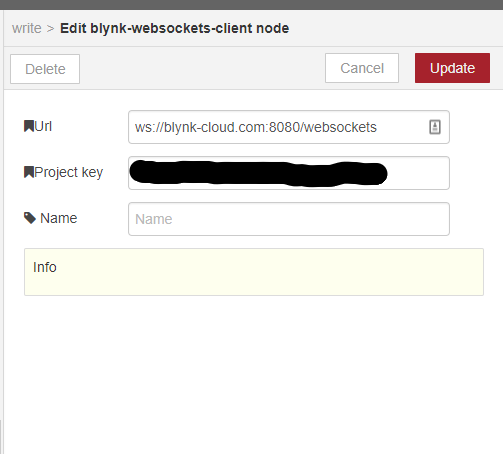
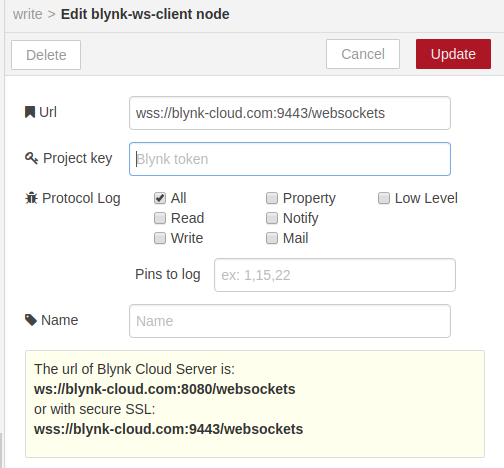
Update project climate monitor

diff --git a/content/doc/projects/wireless-climate-monitor.md b/content/doc/projects/wireless-climate-monitor.md
@@ -146,7 +146,7 @@ Now we have assembled our kit and let's start with some basic integration with *
 
 Firstly we need to configure our **Node-RED** app.
 
-1. If you are using BigClown raspi version you should be fine, but still check that **Blynk** nodes are installed. (You can view them on the left side menu in **Node-RED**). Otherwise you will need to install **Node-RED** package `node-red-contrib-blynk-websockets`. You can follow [**this**]({{< relref "doc/tutorials/nodered-library-installation.md" >}}) example for installing libraries to **NodeRED**.
+1. If you are using BigClown raspi version you should be fine, but still check that **Blynk** nodes are installed. (You can view them on the left side menu in **Node-RED**). Otherwise you will need to install **Node-RED** package `node-red-contrib-blynk-ws`. You can follow [**this**]({{< relref "doc/tutorials/nodered-library-installation.md" >}}) example for installing libraries to **NodeRED**.
 
     {{% img-zoom src="nodered-screen-3.png" width="300" %}}
 
@@ -155,7 +155,7 @@ Firstly we need to configure our **Node-RED** app.
 3. Insert the following snippet in the flow (using **Menu >> Import**) and click in Flow 3 tab:
 
     ```json
-    [{"id":"c7e756bb.71c928","type":"blynk-websockets-out-write","z":"b1df9271.05d5","name":"","pin":"0","client":"c8872bd1.636cb8","x":780,"y":220,"wires":[]},{"id":"2f909f2d.48742","type":"blynk-websockets-out-write","z":"b1df9271.05d5","name":"","pin":"1","client":"c8872bd1.636cb8","x":780,"y":280,"wires":[]},{"id":"35bf3efb.8cf392","type":"blynk-websockets-out-write","z":"b1df9271.05d5","name":"","pin":"2","client":"c8872bd1.636cb8","x":780,"y":340,"wires":[]},{"id":"4db9c585.06680c","type":"mqtt in","z":"b1df9271.05d5","name":"","topic":"node/kit-lcd-thermostat:0/lux-meter/0:0/illuminance","qos":"2","broker":"3dded649.aa80aa","x":330,"y":220,"wires":[["c7e756bb.71c928"]]},{"id":"a1a2bff5.c49da","type":"mqtt in","z":"b1df9271.05d5","name":"","topic":"node/kit-lcd-thermostat:0/thermometer/0:0/temperature","qos":"2","broker":"3dded649.aa80aa","x":340,"y":280,"wires":[["2f909f2d.48742"]]},{"id":"cdb820bb.66d9f","type":"mqtt in","z":"b1df9271.05d5","name":"","topic":"node/kit-lcd-thermostat:0/hygrometer/0:4/relative-humidity","qos":"2","broker":"3dded649.aa80aa","x":350,"y":340,"wires":[["35bf3efb.8cf392"]]},{"id":"c8872bd1.636cb8","type":"blynk-websockets-client","z":"","name":"","path":"ws://blynk-cloud.com:8080/websockets","key":""},{"id":"3dded649.aa80aa","type":"mqtt-broker","z":"","broker":"localhost","port":"1883","clientid":"","usetls":false,"compatmode":true,"keepalive":"60","cleansession":true,"willTopic":"","willQos":"0","willPayload":"","birthTopic":"","birthQos":"0","birthPayload":""}]
+    [{"id":"4914605c.76972","type":"mqtt in","z":"28050251.59dc0e","name":"","topic":"node/kit-climate-monitor:0/lux-meter/0:0/illuminance","qos":"2","broker":"58254712.b61068","x":230,"y":520,"wires":[["431157f1.546248"]]},{"id":"dcf5bf8d.a0242","type":"mqtt in","z":"28050251.59dc0e","name":"","topic":"node/kit-climate-monitor:0/thermometer/0:0/temperature","qos":"2","broker":"58254712.b61068","x":240,"y":580,"wires":[["be96b6aa.eed098"]]},{"id":"2ac2eae7.308486","type":"mqtt in","z":"28050251.59dc0e","name":"","topic":"node/kit-climate-monitor:0/hygrometer/0:4/relative-humidity","qos":"2","broker":"58254712.b61068","x":250,"y":640,"wires":[["dbe4b438.be4ef8"]]},{"id":"431157f1.546248","type":"blynk-ws-out-write","z":"28050251.59dc0e","name":"Pin V0 - Write","pin":0,"pinmode":0,"client":"1b003066.8ca2c","x":659,"y":520,"wires":[]},{"id":"be96b6aa.eed098","type":"blynk-ws-out-write","z":"28050251.59dc0e","name":"","pin":"1","pinmode":0,"client":"1b003066.8ca2c","x":659,"y":580,"wires":[]},{"id":"dbe4b438.be4ef8","type":"blynk-ws-out-write","z":"28050251.59dc0e","name":"","pin":"2","pinmode":0,"client":"1b003066.8ca2c","x":659,"y":640,"wires":[]},{"id":"58254712.b61068","type":"mqtt-broker","z":"","broker":"localhost","port":"1883","clientid":"","usetls":false,"compatmode":true,"keepalive":"60","cleansession":true,"willTopic":"","willQos":"0","willPayload":"","birthTopic":"","birthQos":"0","birthPayload":""},{"id":"1b003066.8ca2c","type":"blynk-ws-client","z":"","name":"","path":"wss://blynk-cloud.com:9443/websockets","key":"","dbg_all":false,"dbg_read":false,"dbg_write":false,"dbg_notify":false,"dbg_mail":false,"dbg_prop":false,"dbg_low":false,"dbg_pins":""}]
     ```
 
     It will look like this:
@@ -164,7 +164,7 @@ Firstly we need to configure our **Node-RED** app.
 
     {{% note "info" %}}In case you want use it for another sensors just change MQTT topics.{{% /note %}}
 
-4. Configure MQTT node to connect it on you broker. It will propably connect on localhost if you are using Raspberry Pi. After that you will need to configure **Blynk** node. Just fill in URL `ws://blynk-cloud.com:8080/websockets`. The secret key we will configure later after obtaining one.
+4. Configure MQTT node to connect it on you broker. It will propably connect on localhost if you are using Raspberry Pi. After that you will need to configure **Blynk** node. Just fill in URL `wss://blynk-cloud.com:9443/websockets`. The secret key we will configure later after obtaining one.
 
     {{% img-zoom src="nodered-screen-2.png" width="400" %}}
 
